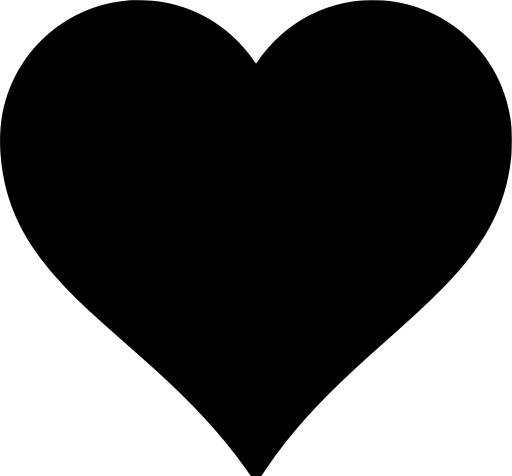
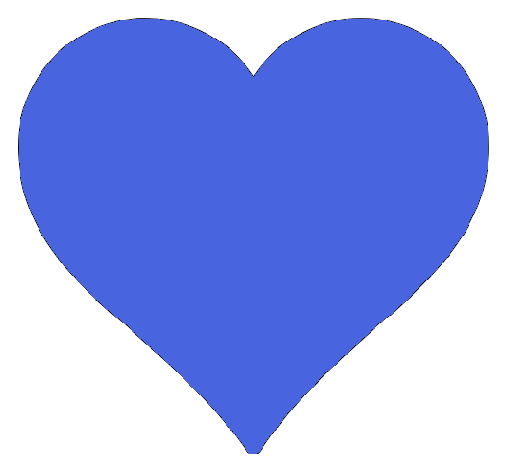
main

diff --git a/src/components/Card.vue b/src/components/Card.vue
@@ -1,8 +1,10 @@
 <template>
   <div class="card-container">
-    <span class="doc__title"> {{ card.title }}</span>
-    <img class="like-icon" v-if="card.isInFavourites" @click="del" src="@/assets/likeRed.png"/>
-    <img class="like-icon" v-else @click="add" src="@/assets/likeBlack.png"/>
+    <div class="doc__title"> {{ card.title }}</div>
+    <div class="like-icon">
+      <img v-if="card.isInFavourites" @click="del" src="@/assets/likeRed.png"/>
+      <img v-else @click="add" src="@/assets/likeBlack.png"/>
+    </div>
   </div>
 </template>
 <script>
@@ -33,16 +35,33 @@ export default {
 
 <style>
 .card-container {
-  padding-top: 10px;
-  padding-bottom: 10px;
+  margin: 10px 40px;
+  padding: 10px;
+  display: flex;
+  border: solid rgb(219, 217, 217) 1px;
+  background-color: rgb(250, 250, 250);
+  justify-content: space-around;
+  align-items: center;
+  border-radius: 10px;
 }
 .doc__title {
-  font-weight: 600;
+  width: 40%;
+  font-size: 1.1rem;
 }
 .like-icon{
   height: 35px;
   width: 35px;
   padding: 10px;
-  border: 1px solid rgb(151, 151, 151)
+  border-radius: 10px;
+  border: solid rgb(219, 217, 217) 1px;
+  background-color: rgb(250, 250, 250);
+}
+.like-icon img{
+  height: 35px;
+  width: 35px;
+}
+.like-icon:hover{
+  border: solid rgb(172, 171, 171) 1px;
+  transition: 0.2s linear;
 }
 </style>

diff --git a/src/router/index.js b/src/router/index.js
@@ -1,13 +1,8 @@
 import { createRouter, createWebHistory } from 'vue-router'
-import HomeView from '../views/HomeView.vue'
 import store from '@/store'
 
 const routes = [
-  {
-    path: '/',
-    name: 'home',
-    component: HomeView
-  },
+
   {
     path: '/login',
     name: 'login',
@@ -23,11 +18,6 @@ const routes = [
     name:  'favourites',
     component: () => import('@/views/Favourites.vue')
   },
-  {
-    path: '/about',
-    name: 'about',
-    component: () => import('@/views/AboutView.vue')
-  }
 ]
 
 const router = createRouter({

diff --git a/src/App.vue b/src/App.vue
@@ -1,7 +1,5 @@
 <template>
   <nav v-if="this.$store.state.AuthModule.logged">
-    <router-link to="/">Home</router-link> |
-    <router-link to="/about">About</router-link> |
     <router-link to="/catalog">Catalog</router-link> |
     <router-link to="/favourites">Favourites</router-link> |
     <router-link to="/login" @click="logout">Logout</router-link>
@@ -47,6 +45,6 @@ nav span {
 }
 
 nav a.router-link-exact-active {
-  color: #42b983;
+  color: #4864df;
 }
 </style>

diff --git a/src/components/Paginator.vue b/src/components/Paginator.vue
@@ -45,7 +45,7 @@
     justify-content: center;
 }
 .active{
-    color: blue;
-    font-size: 1.1rem;
+    color: #4864df;
+    font-size: 1.3rem;
 }
 </style>
